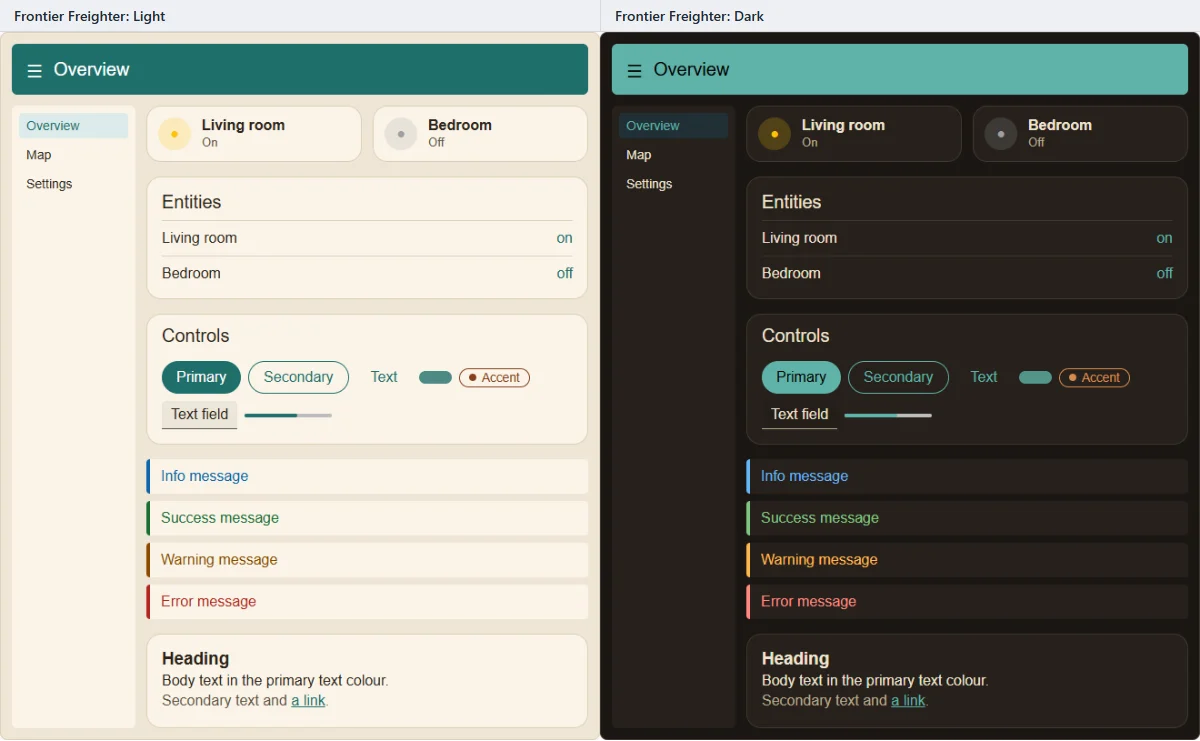
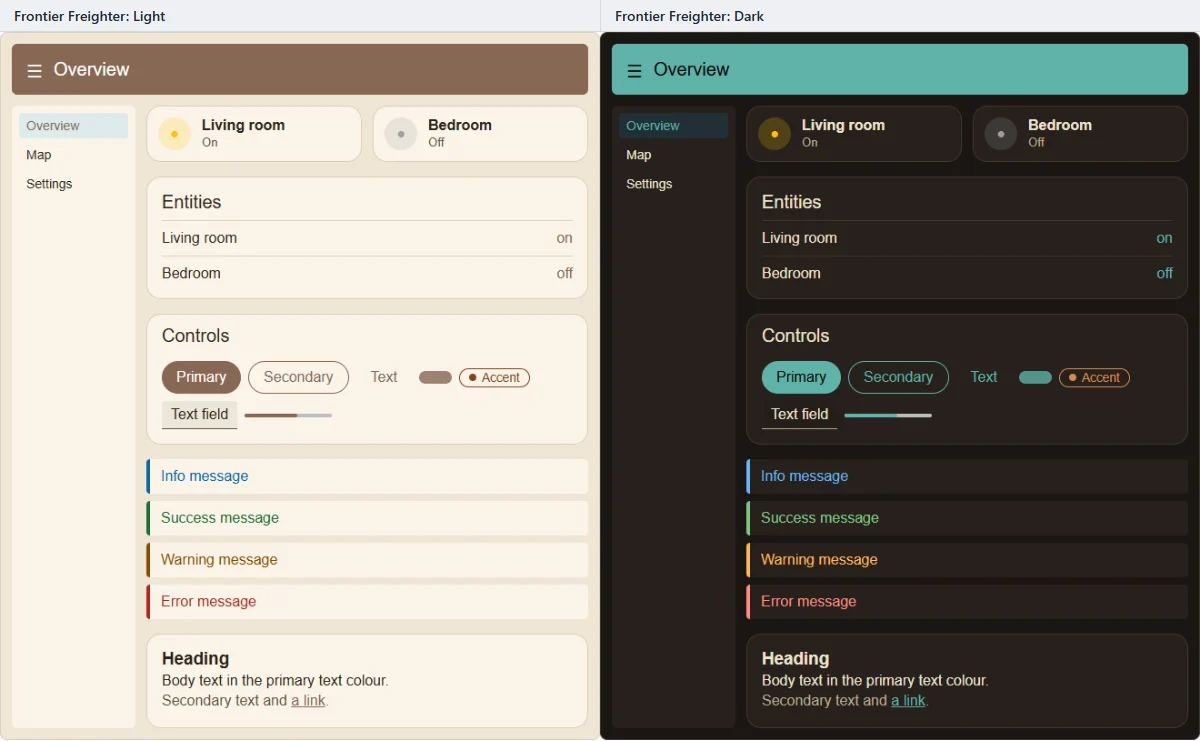
Orbital Smelter gets a petrol header, Frontier Freighter saddle tan, Silverleaf Glade silvered jade, so no two light headers look alike; examples and gallery card 76 re-shot

diff --git a/src/theme-editor/presets/library.ts b/src/theme-editor/presets/library.ts
@@ -186,14 +186,14 @@ const PRESETS: ThemePreset[] = [
[14 lines of base64/hex data omitted]
 ];
 
 export const THEME_PRESET_LIBRARY: ThemePresetLibrary = { version: '1.1.0', presets: PRESETS };

diff --git a/documentation/themes/examples/README.md b/documentation/themes/examples/README.md
@@ -373,7 +373,7 @@ Red-clay desert, brick header, red accent; sand-gold by night.
 
 ## Frontier Freighter
 
-Weathered teal with worn rust and brass, warm and a little scruffy.
+Saddle tan and rust on sandy cream, a little scruffy; weathered teal at night.
 
 ![Frontier Freighter preview, light and dark modes side by side](images/frontier-freighter.webp)
 
@@ -391,7 +391,7 @@ Sun-baked ochre, olive header; at night an ochre glow on deep indigo.
 
 ## Orbital Smelter
 
-Furnace-brown and steel-grey with a coolant-cyan accent; copper at night.
+Deep petrol and steel-grey with a coolant-cyan accent; copper at night.
 
 ![Orbital Smelter preview, light and dark modes side by side](images/orbital-smelter.webp)
 
@@ -415,7 +415,7 @@ Oxblood red over a dark pine forest, moss-green panels, green-black nights.
 
 ## Silverleaf Glade
 
-Silver-teal leaves and gold touches by day; sage green by night.
+Silvered jade leaves and gold touches by day; sage green by night.
 
 ![Silverleaf Glade preview, light and dark modes side by side](images/silverleaf-glade.webp)
 

diff --git a/CHANGELOG.md b/CHANGELOG.md
@@ -7,7 +7,7 @@ Magic Card uses calendar versions: year, month and a release number within the m
 ## Unreleased
 
 ### Changed
--   Seven Sci-fi & fantasy presets got their own colours so they no longer look alike: Orbital Smelter, Ashen Keep and Crimson Pines were nearly the same, and Dust Duel, Ochre Basin, Candlelit Cloister and Silverleaf Glade were close to their neighbours. Within the group, no two presets share a similar header colour in light or in dark. The preset ids and names are unchanged. Themes you already created from these presets stay as they were.
+-   Eight Sci-fi & fantasy presets got their own colours so they no longer look alike: Orbital Smelter, Ashen Keep and Crimson Pines were nearly the same, and Dust Duel, Ochre Basin, Candlelit Cloister, Silverleaf Glade and Frontier Freighter were close to their neighbours. Within the group, no two presets share a similar header colour in light or in dark. The preset ids and names are unchanged. Themes you already created from these presets stay as they were.
 
 ## 2026.10.09 (2026-10-17)
 
